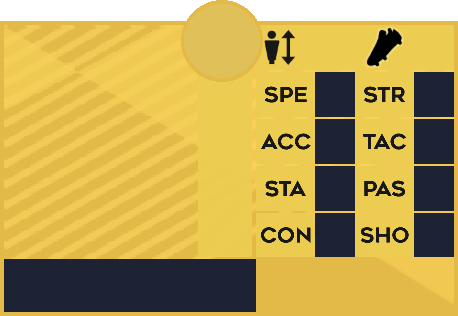
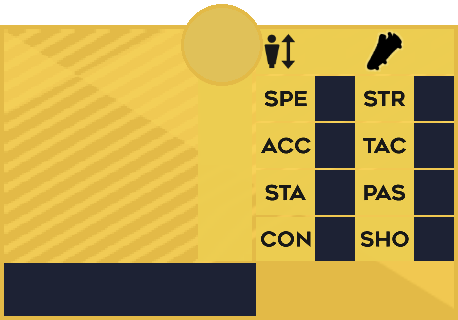
Add maxed cards and edit positions

diff --git a/DLS22/script.js b/DLS22/script.js
@@ -13,6 +13,10 @@ function value(el) {
     return document.getElementById(el).value;
 };
 
+function checked(el) {
+    return document.getElementById(el).checked;
+};
+
 // https://www.html5canvastutorials.com/tutorials/html5-canvas-image-loader/
 function loadImages(sources, callback) {
     var images = {};
@@ -31,14 +35,22 @@ function loadImages(sources, callback) {
         };
         images[src].src = sources[src];
     }
+};
+
+function clearCard() {
+    var card = document.getElementById('card');
+    var ctx = card.getContext('2d');
+    ctx.clearRect(0, 0, card.width, card.height);
+    drawCard();
 }
 
 function drawCard() {
     var card = document.getElementById('card');
     var ctx = card.getContext('2d');
+    var maxed = false;
 
     var sources = {
-        template: `./assets/card/${value('cardType')}${value('position') == 'GK' ? 'GK' : ''}.png`,
+        template: `./assets/card/${checked('maxed') ? 'star/' : ''}${value('cardType')}${value('position') == 'GK' ? 'GK' : ''}.png`,
         positionImage: `./assets/position/${value('position')}.png`,
         flagImage: `./assets/flag/${value('nationality')}.png`,
         uploadImage: `./assets/placeholder.png`
@@ -48,28 +60,26 @@ function drawCard() {
         sources.uploadImage = URL.createObjectURL(document.getElementById('uploadImage').files[0]);
     }
 
-    ctx.clearRect(0, 0, ctx.width, ctx.height);
-
     loadImages(sources, function (images) {
         ctx.drawImage(images.template, 0, 0);
-        ctx.drawImage(images.uploadImage, 18, 32, 224, 224);
-        ctx.drawImage(images.positionImage, 202, 87);
-        ctx.drawImage(images.flagImage, 202, 123, 46, 29);
+        ctx.drawImage(images.uploadImage, 18, 36, 224, 224);
+        ctx.drawImage(images.positionImage, 202, 91);
+        ctx.drawImage(images.flagImage, 202, 127, 46, 29);
 
         // First Name
         ctx.textAlign = 'center'
         ctx.fillStyle = '#777a85';
         ctx.font = '16px Renogare';
-        ctx.fillText(value('firstName'), 130, 277);
+        ctx.fillText(value('firstName'), 130, 281);
 
         // Last Name
         ctx.fillStyle = '#ffffff';
         ctx.font = '25px Renogare';
-        ctx.fillText(value('lastName'), 130, value('firstName') == '' ? 295 : 301);
+        ctx.fillText(value('lastName'), 130, value('firstName') == '' ? 299 : 305);
 
         // Stats
         ctx.font = '20px Renogare';
-        var coordinates = [[335, 102], [335, 149], [335, 196], [335, 242], [434, 102], [434, 149], [434, 196], [434, 242]];
+        var coordinates = [[335, 106], [335, 153], [335, 200], [335, 246], [434, 106], [434, 153], [434, 200], [434, 246]];
         for (var i = 1; i < 9; i++) {
             if (value(`stats${i}`) > 0 && value(`stats${i}`) <= 59) {
                 ctx.fillStyle = '#d9342b';
@@ -97,37 +107,38 @@ function drawCard() {
         }
 
         // Rating Circle
-        ctx.beginPath();
-        ctx.arc(222, 41, 31, 0, 2 * Math.PI);
-        if (value('rating') > 0 && value('rating') <= 59) {
-            ctx.fillStyle = '#d0504b';
-        } else if (value('rating') > 59 && value('rating') <= 69) {
-            ctx.fillStyle = '#de8735';
-        } else if (value('rating') > 69 && value('rating') <= 79) {
-            ctx.fillStyle = '#E4C059';
-        } else if (value('rating') > 79 && value('rating') <= 89) {
-            ctx.fillStyle = '#63d041';
-        } else if (value('rating') > 89 && value('rating') <= 100) {
-            ctx.fillStyle = '#5697cd';
+        if (!checked('maxed')) {
+            ctx.beginPath();
+            ctx.arc(222, 45, 31, 0, 2 * Math.PI);
+            if (value('rating') > 0 && value('rating') <= 59) {
+                ctx.fillStyle = '#d0504b';
+            } else if (value('rating') > 59 && value('rating') <= 69) {
+                ctx.fillStyle = '#de8735';
+            } else if (value('rating') > 69 && value('rating') <= 79) {
+                ctx.fillStyle = '#E4C059';
+            } else if (value('rating') > 79 && value('rating') <= 89) {
+                ctx.fillStyle = '#63d041';
+            } else if (value('rating') > 89 && value('rating') <= 100) {
+                ctx.fillStyle = '#5697cd';
+            }
+            ctx.fill();
         }
-
-        ctx.fill();
 
         // Rating
         ctx.fillStyle = '#ffffff';
         ctx.font = '28px Renogare';
-        ctx.fillText(value('rating'), 222, 52);
+        ctx.fillText(value('rating'), 222, 56);
 
         // Height
         ctx.textAlign = 'left'
-        ctx.fillStyle = '#1d2234';
+        ctx.fillStyle = checked('maxed') && value('cardType') == 'legendary' ? '#ffffff' : '#1d2234';
         ctx.font = '23px Renogare';
-        ctx.fillText(value('height'), 304, 56);
+        ctx.fillText(value('height'), 304, 60);
 
         // Foot
-        ctx.fillText(value('foot'), 414, 56);
+        ctx.fillText(value('foot'), 414, 60);
     });
-}
+};
 
 // https://daily-dev-tips.com/posts/vanilla-javascript-save-canvas-as-an-image/
 function saveCard() {
@@ -137,4 +148,4 @@ function saveCard() {
     link.href = card.toDataURL();
     link.click();
     link.delete;
-}  
+}; 

diff --git a/DLS22/index.html b/DLS22/index.html
@@ -18,7 +18,7 @@
         </h1>
     </header>
     <div>
-        <canvas id="card" width="458" height="316"></canvas>
+        <canvas id="card" width="458" height="320"></canvas>
     </div>
     <div>
         <p>Version
@@ -52,6 +52,8 @@
                     Common
                 </option>
             </select>
+            Maxed
+            <input id="maxed" type="checkbox" onchange="clearCard();">
             Height
             <input id="height" max="999" min="1" type="number" value="171">
             Foot
